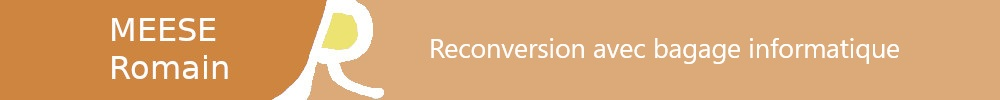
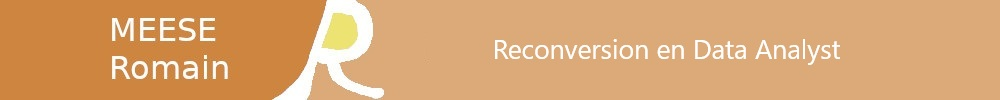
Mise à jour CV + oriente sur Data Analyst

Changed region(s): [[0.434, 0.39, 0.899, 0.66]]

diff --git a/CViframe/index.html b/CViframe/index.html
@@ -21,7 +21,7 @@ Il ne représente plus ma manière actuelle d'écrire du code.
         <div id="gauche">
             <!---->
             <div id="lignevide"></div>
-            Issu d'un parcours en informatique, je souhaite mettre mes compétences analytiques, ma rigueur et ma maîtrise des outils numériques au service de missions de gestion, d'analyse ou d'appui administratif, dans un environnement structuré et collaboratif.
+            <p>Issu d'un parcours en informatique, je me reconvertis vers la data analyse. Analytique et rigoureux, j'ai <a href="https://github.com/Romain672/ProjetData">développé un système de scoring original sur le dataset Titanic</a> (77% de précision sur Kaggle) en Python, de zéro. Je cherche une alternance pour appliquer et approfondir ces compétences dans un environnement structuré.</p>
 
             <!---->
             <h2>Contact</h2>
@@ -102,49 +102,65 @@ Il ne représente plus ma manière actuelle d'écrire du code.
             <div id="partie2" class="CVpartie">
                 <h2 class="titre"><img src="../Icones/cleamolette.svg" class="icon">Compétences</h2>
                 
-                <h3 class="titre"><img src="../Icones/forward-solid.svg" class="icon">...front-end</h3>
-                    Maquetter une application<br>
-                    Réaliser une interface utilisateur web statique et adaptable<br>
-                    Développer une interface utilisateur web dynamique<br>
-                    Réaliser une interface utilisateur avec une solution de gestion de contenu ou e-commerce<br>
-                    <img src="../logos/figma.avif" class="icon">Figma &nbsp
-                    <img src="../logos/logo-html5.png" class="icon">HTML5 &nbsp
-                    <img src="../logos/logo-css.png" class="icon">CSS &nbsp
-                    <img src="../logos/logo-js.png" class="icon">Javascript
-                <h3 class="titre"><img src="../Icones/backward-solid.svg" class="icon">...back-end</h3>
-                    Créer une base de données<br>
-                    Développer les composants d'accès aux données<br>
-                    Développer la partie back-end d'une application web ou web mobile<br>
-                    Elaborer et mettre en œuvre des composants dans une application de gestion de contenu ou e-commerce<br>
-                    <img src="../logos/php.png" class="icon">Php &nbsp
-                    <img src="../logos/merise.png" class="icon">Merise &nbsp
+                <h3 class="titre"><img src="../Icones/CV.svg" class="icon">...data & analyse</h3>       
+                    Analyse et modélisation de données<br>
+                    <img src="../logos/python.png" class="icon">Python &nbsp
+                    <img src="../logos/pandas.png" class="icon">Pandas &nbsp
+                    <img src="../logos/scikit-learn.png" class="icon">Scikit-learn &nbsp
+                    <img src="../logos/matplotlib.png" class="icon">Matplotlib &nbsp
+                    <img src="../logos/seaborn.png" class="icon">Seaborn &nbsp
+                    <img src="../logos/python.png" class="icon">SQL &nbsp
                     <img src="../logos/mysql.svg" class="icon">Mysql &nbsp
+                <h3 class="titre"><img src="../Icones/forward-solid.svg" class="icon">...front-end</h3>
+                    <!--Maquetter une application<br>-->
+                    <!--Réaliser une interface utilisateur web statique et adaptable<br>-->
+                    <!--Développer une interface utilisateur web dynamique<br>-->
+                    <!--Réaliser une interface utilisateur avec une solution de gestion de contenu ou e-commerce<br>-->
+                    <!--<img src="../logos/figma.avif" class="icon">Figma &nbsp-->
+                    <!--<img src="../logos/logo-html5.png" class="icon">HTML5 &nbsp
+                    <img src="../logos/logo-css.png" class="icon">CSS &nbsp
+                    <img src="../logos/logo-js.png" class="icon">Javascript-->
+                    Notions HTML/CSS/Javascript
+                <!--<h3 class="titre"><img src="../Icones/backward-solid.svg" class="icon">...back-end</h3>-->
+                    <!--Créer une base de données<br>-->
+                    <!--Développer les composants d'accès aux données<br>-->
+                    <!--Développer la partie back-end d'une application web ou web mobile<br>-->
+                    <!--Elaborer et mettre en œuvre des composants dans une application de gestion de contenu ou e-commerce<br>-->
+                    <!--<img src="../logos/php.png" class="icon">Php &nbsp-->
+                    <!--<img src="../logos/merise.png" class="icon">Merise &nbsp-->
+                    <!--<img src="../logos/mysql.svg" class="icon">Mysql &nbsp-->
                 <h3 class="titre"><img src="../Icones/foldercheck.svg" class="icon reversecolor">...bureautique & administratif</h3>
-                    Maîtrise des outils bureautiques (Excel, Word, Google Sheets)<br>
-                    Création et mise en forme de documents professionnels<br>
-                    Traitement et vérification de données (pointage, facturation)<br>
-                    Communication écrite claire et professionnelle<br>
+                    <!--Maîtrise des outils bureautiques (Excel, Word, Google Sheets)<br>-->
+                    <!--Création et mise en forme de documents professionnels<br>-->
+                    Traitement et vérification de données <!--(pointage, facturation)--><br>
+                    <!--Communication écrite claire et professionnelle<br>-->
                     Méthode, rigueur et sens de l'organisation<br>
-                    Sens de la confidentialité et travail en autonomie<br>
+                    <!--Sens de la confidentialité et travail en autonomie<br>-->
                     <img src="../logos/excel.png" class="icon">Excel &nbsp
                     <img src="../logos/word.png" class="icon">Word &nbsp
                     <img src="../logos/logo-googlesheet.png" class="icon">Googlesheet &nbsp            
-                
+
+
+
             <!---->
-            <div id="partie3" class="CVpartie">
+            <!--<div id="partie3" class="CVpartie">
                 <h3 class="titre"><img src="../Icones/livres.svg" class="icon ">...autres</h3>
                 <img src="../logos/logo-c++.png" class="icon">C++ &nbsp
                 <img src="../logos/logo-scratch.png" class="icon">Scratch &nbsp
                 <img src="../logos/logo-prezi.png" class="icon">Prezi
-            </div>
+            </div>-->
 
 
 
             <!---->
             <div id="partie1" class="CVpartie">
-                <h2 class="titre"><img src="../Icones/footstep.svg" class="icon">Expériences
-                    professionnelles</h2>
+                <h2 class="titre"><img src="../Icones/footstep.svg" class="icon">Expériences</h2>
 
+                
+                <h3 class="titre"><a
+                        href="https://github.com/Romain672/ProjetData"
+                        class="acv" target="_blank"><img src="../Icones/pilotage.svg" class="icon">Projet personnel Titanic</h3></a>
+                <p>Python, Pandas, Scikit-learn - 77% Kaggle - 10 jours - Février 2026</p>
                 <h3 class="titre"><a
                         href="https://www.facebook.com/adice.europe.direct.roubaix/photos/a.191834297590712/2195775487196573/?type=3&theater"
                         class="acv" target="_blank"><img src="../Icones/avion.svg" class="icon">Volontaire en service
